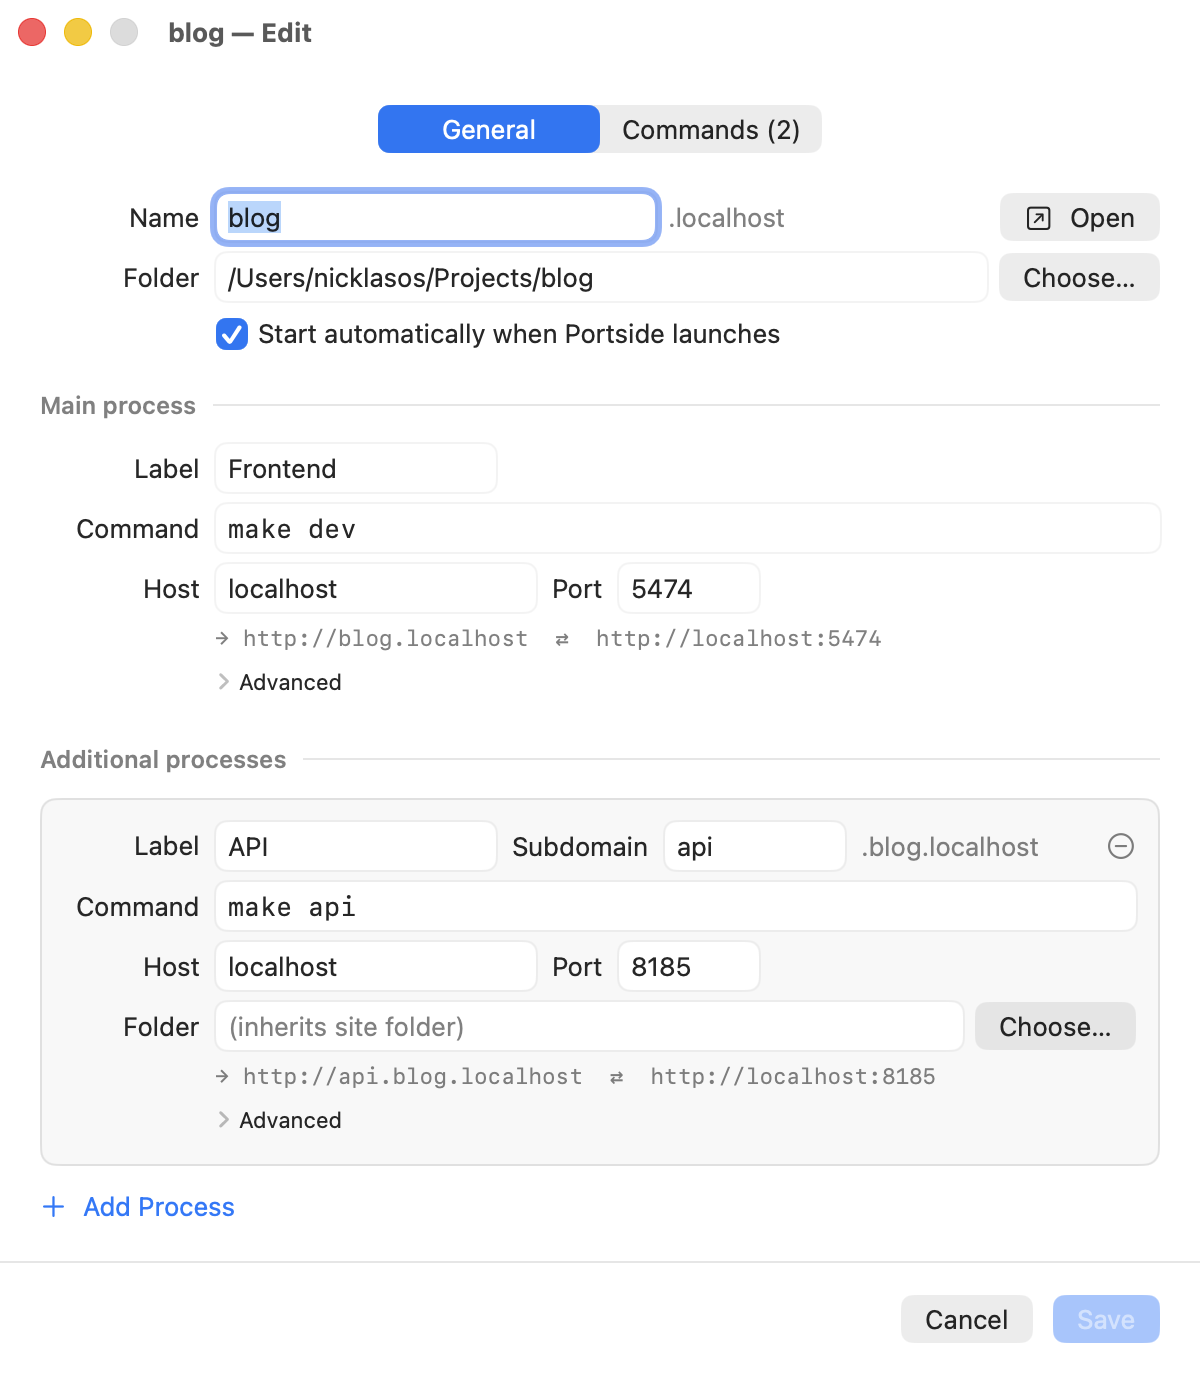
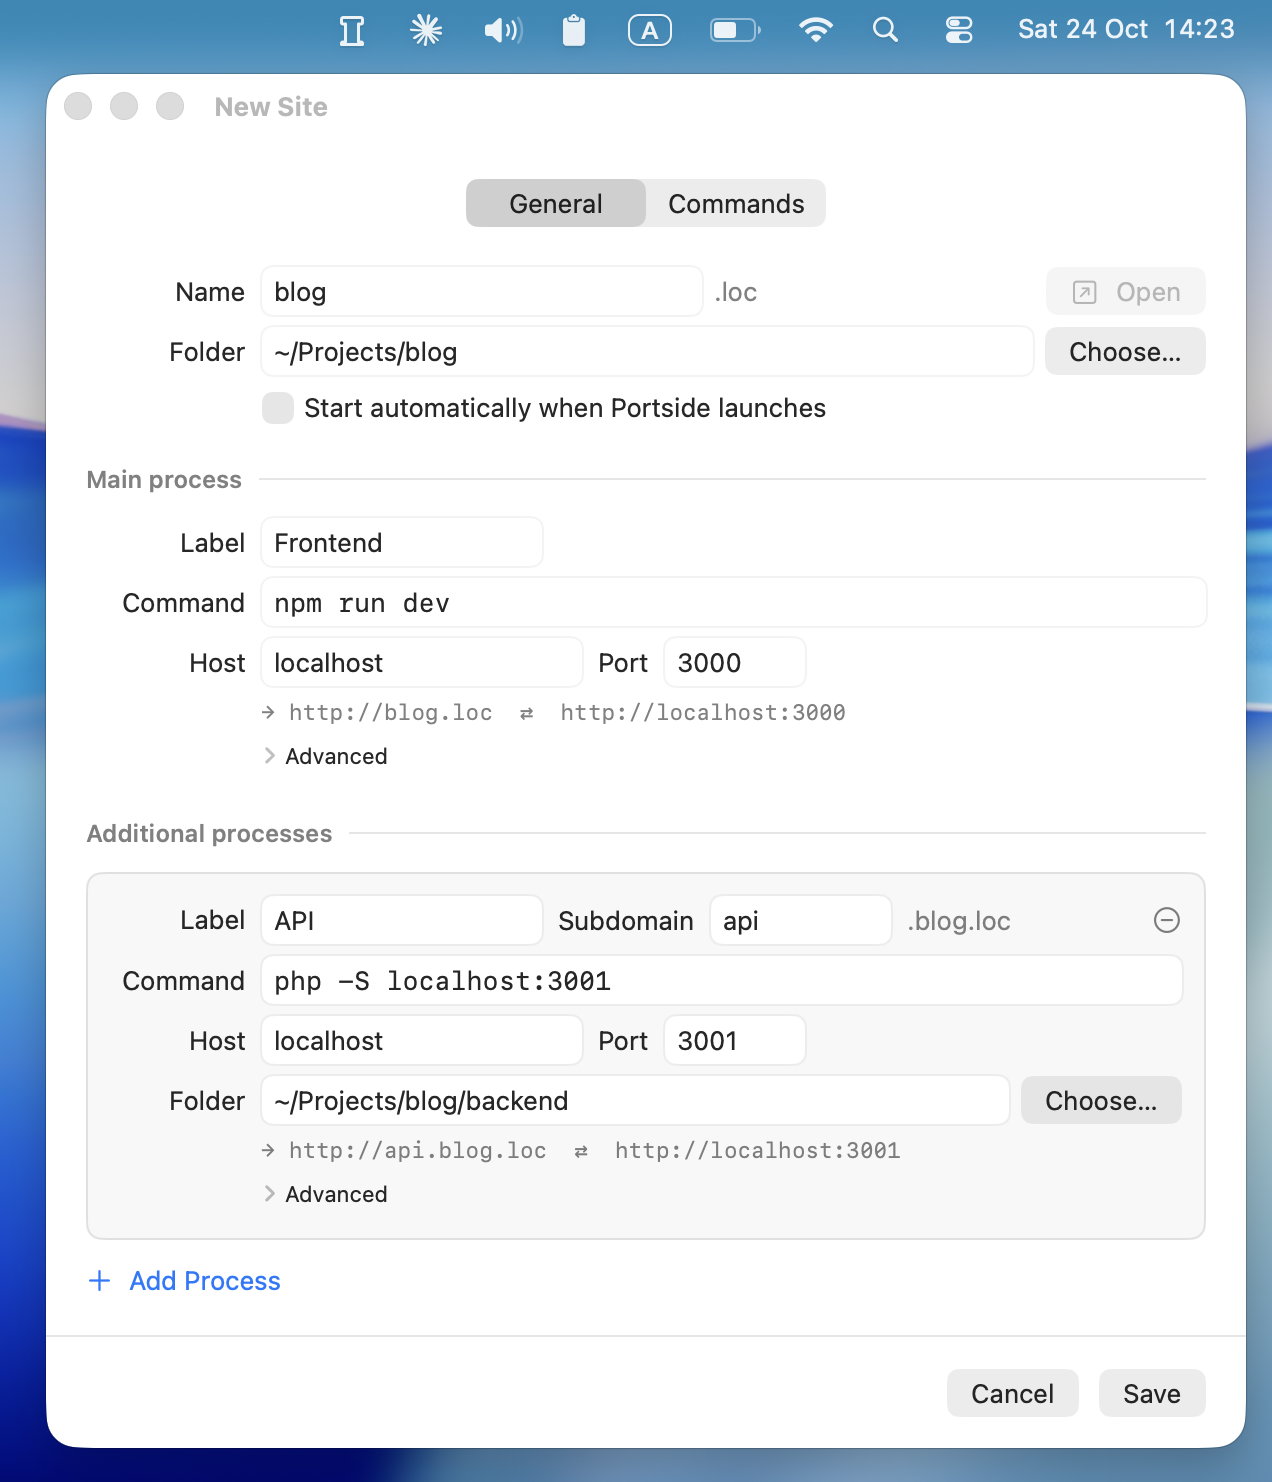
docs: use real screenshots in the README
Replace the demo screenshots with ones taken on a real Mac. The hero shows a
site's … menu with its commands, the Commands section gets its own
screenshot, and the domain picker shot comes from Settings, so the unused
onboarding.png is removed.

diff --git a/README.md b/README.md
@@ -15,7 +15,7 @@
 </p>
 
 <p align="center">
-  <img src="assets/screenshots/menubar.png" width="420" alt="The Portside menu bar popover with three sites: blog running, shop stopped, and crm with a crashed process">
+  <img src="assets/screenshots/menubar.png" width="508" alt="The Portside menu bar popover with three sites: smartcity running with its … menu open on its Deploy dev and Deploy prod commands, blog stopped, and the static shop site switched on">
 </p>
 
 ## What it does
@@ -36,7 +36,7 @@
    Any other suffix needs one file, `/etc/resolver/<suffix>`, which tells macOS to send that suffix's lookups to Portside. Portside explains the file and waits for you to click **Install Resolver**. Then macOS asks for your administrator password once. The resolver file is the only change outside your home folder.
 
 <p align="center">
-  <img src="assets/screenshots/onboarding.png" width="480" alt="The Choose Your Local Domain window: .localhost works without setup, .test belongs to another tool on this Mac, .loc and .local need a resolver file, and a custom field">
+  <img src="assets/screenshots/domain.png" width="546" alt="The domain choice in Settings: .localhost works without setup, .test belongs to another tool on this Mac, .loc resolves through Portside, .local is not recommended, and a custom .wip suffix needs a resolver file">
 </p>
 
 A Homebrew cask is planned.
@@ -68,7 +68,7 @@ xattr -dr com.apple.quarantine /Applications/Portside.app
 ## Quick start
 
 <p align="center">
-  <img src="assets/screenshots/editor.png" width="560" alt="The site editor with a main process on port 5474 and an API process on the api subdomain">
+  <img src="assets/screenshots/editor.png" width="560" alt="The New Site editor for blog with npm run dev on port 3000 and a PHP API process on the api subdomain">
 </p>
 
 1. Click the Portside icon in the menu bar, then click **Add Site** (⌘N).
@@ -80,6 +80,10 @@ xattr -dr com.apple.quarantine /Applications/Portside.app
 Portside passes `PORT`, `HOST`, `PORTSIDE_SITE`, and `PORTSIDE_URL` to each command. A command such as `npm run dev -- --port $PORT` stays in step with the port you entered. Leave the command empty to serve the folder as static files. A static site has a switch in the menu instead of start and stop buttons.
 
 ## Commands
+
+<p align="center">
+  <img src="assets/screenshots/commands.png" width="560" alt="The Commands tab of the blog editor with Deploy dev and Deploy prod commands, each running make in ~/Projects/blog with Show logs on">
+</p>
 
 A site can also hold commands that you run when you need them, such as a deploy or a database seed. Open the site editor and choose **Commands** in the control at the top. Click **Add Command**, name it, such as `Deploy`, and enter the shell line, such as `make deploy && echo "ok"`. The command runs in the site folder unless you choose another folder.
 
@@ -106,7 +110,7 @@ Each command gets `PORTSIDE`, `PORTSIDE_SITE`, and `PORTSIDE_URL`, the site's ma
 ## Logs
 
 <p align="center">
-  <img src="assets/screenshots/logs.png" width="720" alt="The logs window for blog with a tab for each process and colored Vite output">
+  <img src="assets/screenshots/logs.png" width="720" alt="The logs window for smartcity with a tab for each of its three processes and colored Vite output">
 </p>
 
 Each site has a log window with one tab per process, main process first, then a tab for each command that ran since Portside started. The window keeps the last 10,000 lines of each process and renders ANSI colors. It scrolls with new output until you scroll up. The line count sits under the window title. The toolbar's left edge starts, stops, or restarts the selected process. Its right edge opens the site in the browser, opens the folder in Finder or Terminal, and holds Follow, Clear, and Copy All. The tabs sit in a bar under the toolbar, with a search field for the shown lines at its end. ⌘F focuses the search. To keep logs on disk as well, turn on log mirroring in **Settings**. Portside then writes `~/Library/Logs/Portside/<site>/<process>.log`, and `<command>.log` for a command.
